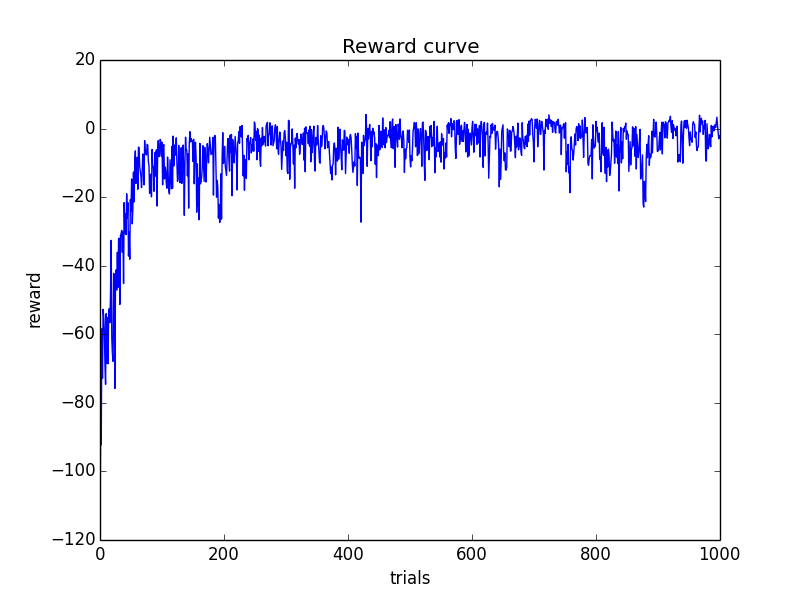
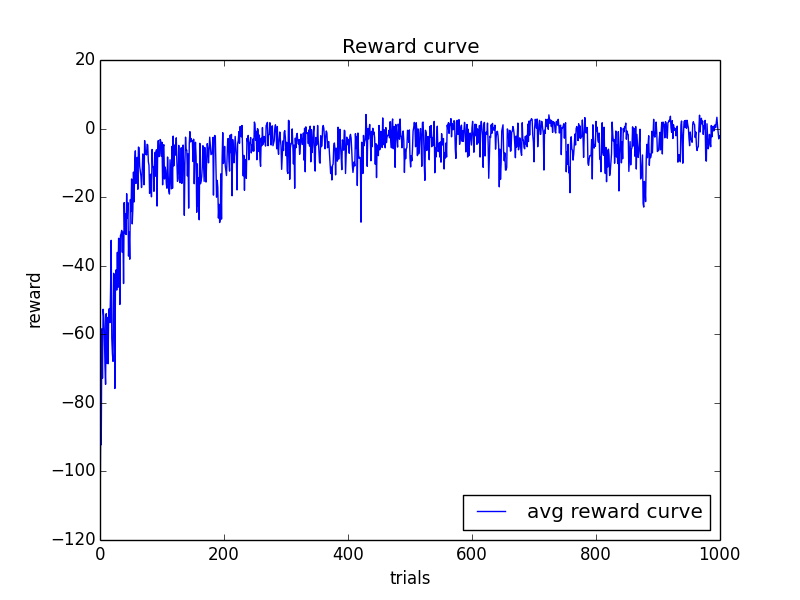
correction for some plots

Changed region(s): [[0.5625, 0.81, 0.9062, 0.9]]

diff --git a/miniproject2/src/plot_learning_curve.py b/miniproject2/src/plot_learning_curve.py
@@ -94,6 +94,7 @@ def plot_learning_curve(data, description):
     plt.xlabel(description.get('xlabel'))
     plt.ylabel(description.get('ylabel'))
     plt.title(description.get('title'))
+    plt.legend(loc = description.get('loc'))
     plt.savefig('plots/' + description['fname'], bbox_inches=0)
     plt.close()
 
@@ -115,6 +116,7 @@ def main(argv):
             'fname': 'learning_curve.png',
             'label': 'avg learning curve',
             'title': 'Learning curve',
+            'loc': 'upper right',
             'xlabel': 'trial',
             'ylabel': 'time steps to finish'
         }
@@ -123,6 +125,7 @@ def main(argv):
             'fname': 'reward_curve.png',
             'label': 'avg reward curve',
             'title': 'Reward curve',
+            'loc': 'lower right',
             'xlabel': 'trials',
             'ylabel': 'reward'
         }
